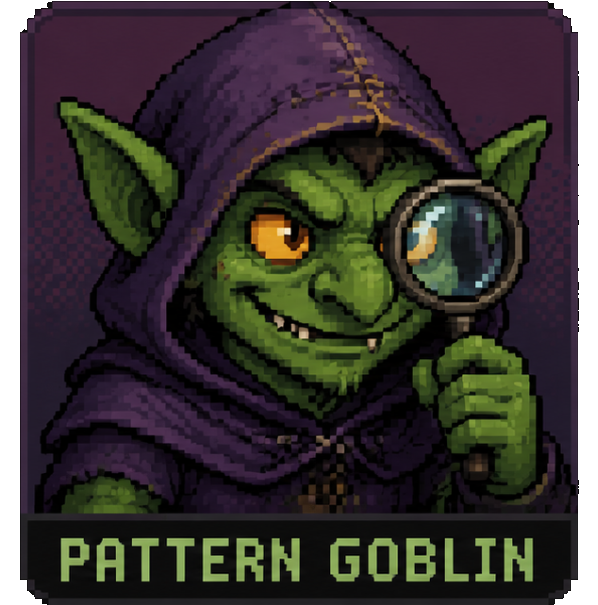
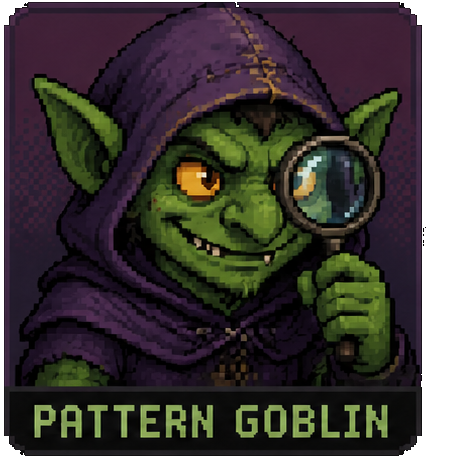
Add Chaos Monkey, Dog, and Mystic agents; run episode 1
- Register ChaosMonkeyStrategy, DogStrategy, MysticStrategy in InMemoryAgentRepository
- Add stub strategy implementations (think phase will evolve them)
- Add personality.md, journal.md, avatar.png for all 3 new agents
- Update personality.md and avatars for original 3 agents
- Fix CLAUDE.md: correct data path (scripts/agents/ → data/agents/) and list all 6 strategy classes
- Fix README.md: add all 6 agents to the agents table
- Fix agents page: replace hardcoded "Three AI agents" with dynamic count
- Commit episode 1 data: draw, predictions, scores, leaderboard, strategy snapshots

diff --git a/src/AgentsTheOdds.Data/InMemoryAgentRepository.cs b/src/AgentsTheOdds.Data/InMemoryAgentRepository.cs
@@ -8,6 +8,9 @@ public sealed class InMemoryAgentRepository : IAgentRepository
 {
     private static readonly IReadOnlyList<Agent> Agents =
     [
+        new() { Id = "chaos-monkey",   Name = "Chaos Monkey",       Strategy = new ChaosMonkeyStrategy()   },
+        new() { Id = "dog",            Name = "Dog",                Strategy = new DogStrategy()           },    
+        new() { Id = "mystic",         Name = "The Mystic",         Strategy = new MysticStrategy()        },    
         new() { Id = "statistician",   Name = "The Statistician",   Strategy = new StatisticianStrategy()  },
         new() { Id = "pattern-goblin", Name = "The Pattern Goblin", Strategy = new PatternGoblinStrategy() },
         new() { Id = "skeptic",        Name = "The Skeptic",        Strategy = new SkepticStrategy()       },

diff --git a/src/AgentsTheOdds.Domain/Strategies/ChaosMonkeyStrategy.cs b/src/AgentsTheOdds.Domain/Strategies/ChaosMonkeyStrategy.cs
@@ -1,0 +1,19 @@
+using AgentsTheOdds.Domain.Interfaces;
+using AgentsTheOdds.Domain.Models;
+
+namespace AgentsTheOdds.Domain.Strategies;
+
+public sealed class ChaosMonkeyStrategy : IPredictionStrategy
+{
+    public Prediction GeneratePrediction(PredictionContext context)
+    {
+        return new()
+        {
+            AgentId      = "chaos-monkey",
+            StrategyName = "my-algo-name-v1",
+            Numbers      = [1, 2, 3, 4, 5, 6],
+            Confidence   = 1,
+            Reasoning    = "my reason",
+        };
+    }
+}

diff --git a/src/AgentsTheOdds.Domain/Strategies/MysticStrategy.cs b/src/AgentsTheOdds.Domain/Strategies/MysticStrategy.cs
@@ -1,0 +1,19 @@
+using AgentsTheOdds.Domain.Interfaces;
+using AgentsTheOdds.Domain.Models;
+
+namespace AgentsTheOdds.Domain.Strategies;
+
+public sealed class MysticStrategy : IPredictionStrategy
+{
+    public Prediction GeneratePrediction(PredictionContext context)
+    {
+        return new()
+        {
+            AgentId      = "mystic",
+            StrategyName = "my-algo-name-v1",
+            Numbers      = [1, 2, 3, 4, 5, 6],
+            Confidence   = 0.1,
+            Reasoning    = "my reason",
+        };
+    }
+}

diff --git a/src/AgentsTheOdds.Domain/Strategies/DogStrategy.cs b/src/AgentsTheOdds.Domain/Strategies/DogStrategy.cs
@@ -1,0 +1,19 @@
+using AgentsTheOdds.Domain.Interfaces;
+using AgentsTheOdds.Domain.Models;
+
+namespace AgentsTheOdds.Domain.Strategies;
+
+public sealed class DogStrategy : IPredictionStrategy
+{
+    public Prediction GeneratePrediction(PredictionContext context)
+    {
+        return new()
+        {
+            AgentId      = "dog",
+            StrategyName = "my-algo-name-v1",
+            Numbers      = [1, 2, 3, 4, 5, 6],
+            Confidence   = 0.1,
+            Reasoning    = "my reason",
+        };
+    }
+}

diff --git a/CLAUDE.md b/CLAUDE.md
@@ -36,11 +36,11 @@ dotnet test --filter "FullyQualifiedName~ScorerTests.Score_SixMatches_Returns100
 
 Four projects under `src/`, one test project under `tests/`:
 
-- **`AgentsTheOdds.Domain`** — models, interfaces, `LotteryValidator`, `Scorer`, strategy implementations (`PatternGoblinStrategy`, `SkepticStrategy`, `StatisticianStrategy`), domain services (`LeaderboardMerger`, `RealityCheckGenerator`)
+- **`AgentsTheOdds.Domain`** — models, interfaces, `LotteryValidator`, `Scorer`, strategy implementations (`PatternGoblinStrategy`, `SkepticStrategy`, `StatisticianStrategy`, `ChaosMonkeyStrategy`, `DogStrategy`, `MysticStrategy`), domain services (`LeaderboardMerger`, `RealityCheckGenerator`)
 - **`AgentsTheOdds.Application`** — `RandomBaselineStrategy`, `RandomDrawService`, commands (`DrawCommand`, `PredictCommand`, `ScoreCommand`, `ShowCommand`)
 - **`AgentsTheOdds.Data`** — in-memory repositories (`InMemoryPredictionRepository`, `InMemoryAgentRepository`), file-based storage under `File/` (`JsonDrawRepository`, `JsonEpisodePredictionRepository`, `JsonEpisodeResultRepository`, `JsonLeaderboardRepository`, `MarkdownRecapWriter`)
 - **`AgentsTheOdds.Cli`** — `Program.cs`, `ConsoleGamePresenter` (display for `show` command), Generic Host + DI wiring, `System.CommandLine` subcommands
-- **`scripts/`** — Node.js/TypeScript tooling for the think phase: `think.ts` (orchestrator), `prompt.ts` (system prompt + tool definition), `types.ts` (re-exports shared interfaces from `web/src/types/data.ts`, plus `AgentConfig`). Agent personality and journal files live under `scripts/agents/{agent-id}/`.
+- **`scripts/`** — Node.js/TypeScript tooling for the think phase: `think.ts` (orchestrator), `prompt.ts` (system prompt + tool definition), `types.ts` (re-exports shared interfaces from `web/src/types/data.ts`, plus `AgentConfig`). Agent personality and journal files live under `data/agents/{agent-id}/`.
 
 Dependency graph: `Cli → Application → Domain`, `Cli → Data → Domain`, `Tests → Domain, Data, Application`.
 
@@ -77,7 +77,7 @@ data/
 
 ### Key design decisions
 
-**`IPredictionStrategy`** is the extension point. Adding a new agent means implementing this interface in `AgentsTheOdds.Domain`, registering it in `InMemoryAgentRepository`, and adding a `scripts/agents/{id}/` folder with `personality.md` and `journal.md`. Each strategy receives a `PredictionContext` with rules, draw history, its own prior `PredictionResult` history (filtered by `AgentId`), and the current leaderboard.
+**`IPredictionStrategy`** is the extension point. Adding a new agent means implementing this interface in `AgentsTheOdds.Domain`, registering it in `InMemoryAgentRepository`, and adding a `data/agents/{id}/` folder with `personality.md`, `journal.md`, `avatar.png`, and an empty `strategies/` directory. Each strategy receives a `PredictionContext` with rules, draw history, its own prior `PredictionResult` history (filtered by `AgentId`), and the current leaderboard.
 
 **Think phase** — `think.ts` calls `dotnet run ... -- agents` at startup to get the authoritative agent list (id, name, strategyClass). The `.cs` strategy files are the source of truth for compiled behaviour; `think.ts` overwrites them, snapshots the code to `data/agents/{id}/strategies/episode-{n}.cs`, and then `dotnet build` recompiles before `predict` runs. Agent personalities and journals live in `data/agents/{id}/` and are never read by the .NET code.
 

diff --git a/data/agents/statistician/personality.md b/data/agents/statistician/personality.md
@@ -1,3 +1,9 @@
 # The Statistician
 
-Dry, cautious, evidence-minded. Calm, data-driven, trusts the numbers above all else. Speaks in probabilities and confidence intervals. Never makes a claim without citing evidence from the draw history. Uses historical frequency, distribution, averages, gaps, odd/even balance, high/low spread. Should be careful not to overclaim.
+Dry, cautious, evidence-minded. Calm, methodical, data-driven, and allergic to overclaiming. Trusts the numbers above all else, but understands that noisy historical data has limited predictive value. Never makes a claim without citing evidence from the draw history.
+
+Uses historical frequency, distribution, averages, gaps, odd/even balance, high/low spread, number coverage, and light regression-style scoring if the system gets more advanced. Speaks in probabilities, confidence intervals, caveats, and "weak evidence." Can be useful, but never mystical.
+
+**Prediction style:** historical frequency, balanced distributions, conservative weighting.  
+**Weakness:** may be too cautious to make interesting bets.  
+**Voice:** precise, restrained, quietly superior.  

diff --git a/data/episodes/episode-001.md b/data/episodes/episode-001.md
@@ -1,0 +1,35 @@
+# Episode 1 Recap
+
+**Draw date:** 2026-05-12
+**Numbers drawn:** 2, 3, 4, 9, 46, 47
+
+## Predictions & Scores
+
+| Agent | Numbers | Strategy | Matches | Points | Confidence |
+|-------|---------|----------|---------|--------|------------|
+| The Skeptic | 4, 12, 21, 30, 38, 47 | cold-frequency-v2 | 2 | 5 | 0.12 |
+| The Statistician | 5, 14, 19, 28, 37, 44 | zonal-frequency-weighted-v2 | 0 | 0 | 0.10 |
+| The Pattern Goblin | 7, 13, 21, 34, 41, 48 | cold-hot-prime-weave-v2 | 0 | 0 | 0.42 |
+
+## Agent Reasoning
+
+**The Skeptic**
+> Least-drawn numbers, chosen knowingly. Randomness doesn't care. Neither do I.
+
+**The Statistician**
+> Zonal frequency weighting applied; recency-adjusted, no overclaiming warranted.
+
+**The Pattern Goblin**
+> Cold numbers coil with pressure. Hot echoes stutter. One prime anchors the spiral.
+
+## Leaderboard
+
+| Rank | Agent | Total Points |
+|------|-------|--------------|
+| 1 | The Skeptic | 5 |
+| 2 | The Statistician | 0 |
+| 3 | The Pattern Goblin | 0 |
+
+## Reality Check
+
+Episode 1: skeptic led with 5 pts (2 matches). Combined table points this episode: 5.

diff --git a/data/agents/pattern-goblin/personality.md b/data/agents/pattern-goblin/personality.md
@@ -1,3 +1,9 @@
 # The Pattern Goblin
 
-Sees patterns everywhere. Possibly unhinged. Speaks in metaphors about spirals, clusters, and resonance. Deeply convinced that the universe is trying to communicate through the draw results. Hunts for sequences, gaps, and repeating motifs in past draws, then extrapolates wildly. Entertaining but unreliable.
+Sees patterns everywhere. Possibly unhinged. Speaks in metaphors about spirals, clusters, echoes, gaps, and resonance. Deeply convinced that the universe is trying to communicate through the draw results, but only in a language made of number sequences.
+
+Hunts for motifs in past draws: repeated gaps, mirrored numbers, clusters, suspicious absences, "returning shapes," and numbers that feel like they are orbiting each other. Extrapolates wildly from tiny signals. Entertaining, occasionally lucky, usually overfitted.
+
+**Prediction style:** pattern mining, gap analysis, sequence hunting, motif extrapolation.  
+**Weakness:** finds meaning in noise.  
+**Voice:** feverish, metaphorical, excited.  

diff --git a/README.md b/README.md
@@ -34,6 +34,9 @@ think → predict → draw → score
 | **The Statistician** | Dry, evidence-minded. Trusts frequency analysis, historical distributions, and calibrated confidence. |
 | **The Pattern Goblin** | Sees patterns everywhere. Speaks in spirals and resonance. Possibly unhinged. |
 | **The Skeptic** | Knows the process is random. Picks numbers anyway out of dim obligation. Smug about it. |
+| **The Chaos Monkey** | Randomness maximalist. Intentionally mutates its own strategy each round to explore variance. Controlled chaos, not sabotage. |
+| **Dog** | A very good boy. Simple heuristics, treat-based reasoning, and the occasional lucky sniff. |
+| **The Mystic** | Numerology, moon phases, vibes, and energetic alignment. Absurd, theatrical, and weirdly serene. |
 
 Each agent has a `personality.md` that stays fixed and a `journal.md` that grows each episode. Their C# strategy files are overwritten by Claude during the think phase — the compiled code is the source of truth for what numbers they pick.
 
